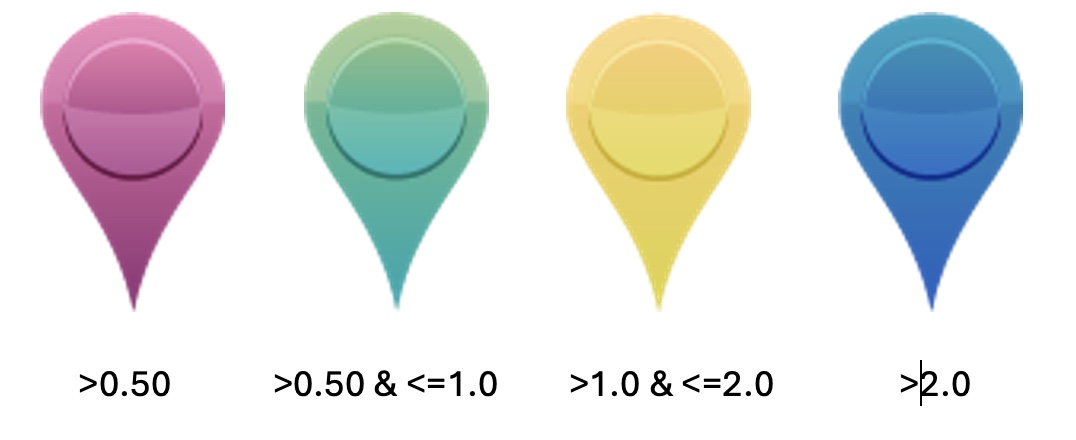
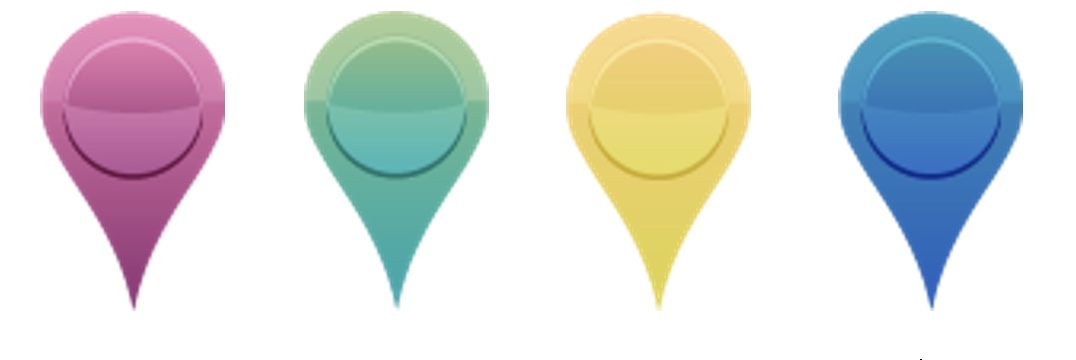
update the code

diff --git a/logic.js b/logic.js
@@ -10,14 +10,14 @@
        attribution: '&copy; <a href="https://www.openstreetmap.org/copyright">OpenStreetMap</a> contributors'
    }).addTo(myMap);
 
-// Define the legend content for each selected period
+// legend content for each selected period
 const legendContent = {
-    '2006-2009': `<h1>Phoenix Housing Market Analysis</h1><img src="markers.png" style="width: 300px; height: auto;"><hr><h3> 2006-2009 Recession Period </br> - Overall Average Percentage Change in Market Value for SFH: -48% </br> - Overall Average Market Price for SFH: -$123,678.76 </br> Click on each marker to see exact pricing for each area in Phoenix. <h3>`,
-    '2009-2019': `<h1>Phoenix Housing Market Analysis</h1><img src="markers.png" style="width: 300px; height: auto;"><hr><h3> 2009-2019 Recovery Period </br> - Overall Average Percentage Change in Market Value for SFH: 138% </br> - Overall Average Market Price for SFH: $157,136.34 </br> Click on each marker to see exact pricing for each area in Phoenix. <h3>`,
-    '2019-2023': `<h1>Phoenix Housing Market Analysis</h1><img src="markers.png" style="width: 300px; height: auto;"><hr><h3> 2019-2023 COVID-19 Period </br> - Overall Average Percentage Change in Market Value for SFH: 59% </br> - Overall Average Market Price for SFH: $181,224.55 </br> Click on each marker to see exact pricing for each area in Phoenix. <h3>`
+    '2006-2009': `<h1>Phoenix Housing Market Analysis</h1><img src="markers.png" style="width: 300px; height: auto;"><h2> &nbsp;> -35%&nbsp;&nbsp;&nbsp; -45%&nbsp;&nbsp;&nbsp;< -45%&nbsp;&nbsp;&nbsp < -55% </h1><h3><hr> </br> 2006-2009 Recession Period </br> - Overall Average Percentage Change in Market Value for SFH: -48% </br> - Overall Average Market Price for SFH: -$123,678.76 </br> Click on each marker to see exact pricing for each area in Phoenix. <h3>`,
+    '2009-2019': `<h1>Phoenix Housing Market Analysis</h1><img src="markers.png" style="width: 300px; height: auto;"><h2> &nbsp; < 50%&nbsp;&nbsp;&nbsp; > 50%&nbsp;&nbsp;&nbsp;< 100% &nbsp;&nbsp;&nbsp >200%% </h1><h3><hr></br> 2009-2019 Recovery Period </br> - Overall Average Percentage Change in Market Value for SFH: 138% </br> - Overall Average Market Price for SFH: $157,136.34 </br> Click on each marker to see exact pricing for each area in Phoenix. <h3>`,
+    '2019-2023': `<h1>Phoenix Housing Market Analysis</h1><img src="markers.png" style="width: 300px; height: auto;"><<h2> &nbsp; < 50%&nbsp;&nbsp;&nbsp; > 50%&nbsp;&nbsp;&nbsp;< = 60% &nbsp;&nbsp;&nbsp >60%%</h1><h3><hr> </br>2019-2023 COVID-19 Period </br> - Overall Average Percentage Change in Market Value for SFH: 59% </br> - Overall Average Market Price for SFH: $181,224.55 </br> Click on each marker to see exact pricing for each area in Phoenix. <h3>`
 };
 
-// Create a custom legend control
+//legend control
 const legend = L.control({ position: 'bottomright' });
 
 legend.onAdd = function (map) {
@@ -32,23 +32,23 @@ legend.addTo(myMap);
 //set the customer icon
 const greenIcon = L.icon({
     iconUrl: 'img/greenIcon.png',
-    iconSize: [20, 25]
+    iconSize: [30, 47]
   });
   const yellowIcon = L.icon({
     iconUrl: 'img/yellowIcon.png',
-    iconSize: [20, 25]
+    iconSize: [30, 47]
   });
   const blueIcon = L.icon({
     iconUrl: 'img/blueIcon.png',
-    iconSize: [20, 25]
+    iconSize: [30, 47]
   });
   const orangeIcon = L.icon({
     iconUrl: 'img/orangeIcon.png',
-    iconSize: [20, 25]
+    iconSize: [30, 47]
   });
   const pinkIcon = L.icon({
     iconUrl: 'img/pinkIcon.png',
-    iconSize: [20, 25]
+    iconSize: [30, 47]
   });
 
 // Load data from the CSV file

diff --git a/README.md b/README.md
@@ -1,20 +1,23 @@
 # Data Visualization Project 3 – Team 1
-## Renee Perez, Jessica Borbon, Jorge Benavente
+Here is the deployment link https://jessicaborbon.github.io/Zillow-Market-Analysis-Data-Visualization---Project-3/
 
-### In this Zillow Market Analysis Visualization, we created an interactive map to display the change in property market value, specifically for single family homes, across 3 different time periods in Phoenix, AZ. We focused on showcasing the difference in property value before and after the Great Recession, the Recovery Period after, and COVID-19.
+# Renee Perez, Jessica Borbon, Jorge Benavente
 
-### On the map there is a toggle feature to showcase one visualization for each period. When you click on each marker on the map, you’ll see the area and the percentage difference of the average property value of that area.
+## In this Zillow Market Analysis Visualization, we created an interactive map to display the change in property market value, specifically for single family homes, across 3 different time periods in Phoenix, AZ. We focused on showcasing the difference in property value before and after the Great Recession, the Recovery Period after, and COVID-19.
 
-### The data was extracted and transformed in Postgres, transferred to a new csv file and that csv file was used to create the visualization.
+## On the map there is a toggle feature to showcase one visualization for each period. When you click on each marker on the map, you’ll see the area and the percentage difference of the average property value of that area.
 
-## All corresponding files can be found in the main branch of the GitHub page. Here are the files to reference for the final work:
+# The data was extracted and transformed in Postgres, transferred to a new csv file and that csv file was used to create the visualization.
+
+# All corresponding files can be found in the main branch of the GitHub page. Here are the files to reference for the final work:
 README | 
 index.html |
 logic.js |
 style.css
 
-## You will see below information on our data sources:
-### Zillow Market Analysis Dataset, NASDAQ - https://data.nasdaq.com/databases/ZILLOW
-### US Zip Code Dataset, SimpleMaps - https://simplemaps.com/data/us-zips
+You will see below information on our data sources:
+# Zillow Market Analysis Dataset, NASDAQ - https://data.nasdaq.com/databases/ZILLOW
 
-## Ethical Considerations: Although our datasets contain no personal or identifying information for individuals, we were sure to cite the source attribution in the code for the datasets used and ensured we did not share any API keys with others. We stated the purpose for using the dataset was educational and will not be used for any other purpose.
+US Zip Code Dataset, SimpleMaps - https://simplemaps.com/data/us-zips
+
+ Ethical Considerations: Although our datasets contain no personal or identifying information for individuals, we were sure to cite the source attribution in the code for the datasets used and ensured we did not share any API keys with others. We stated the purpose for using the dataset was educational and will not be used for any other purpose.
